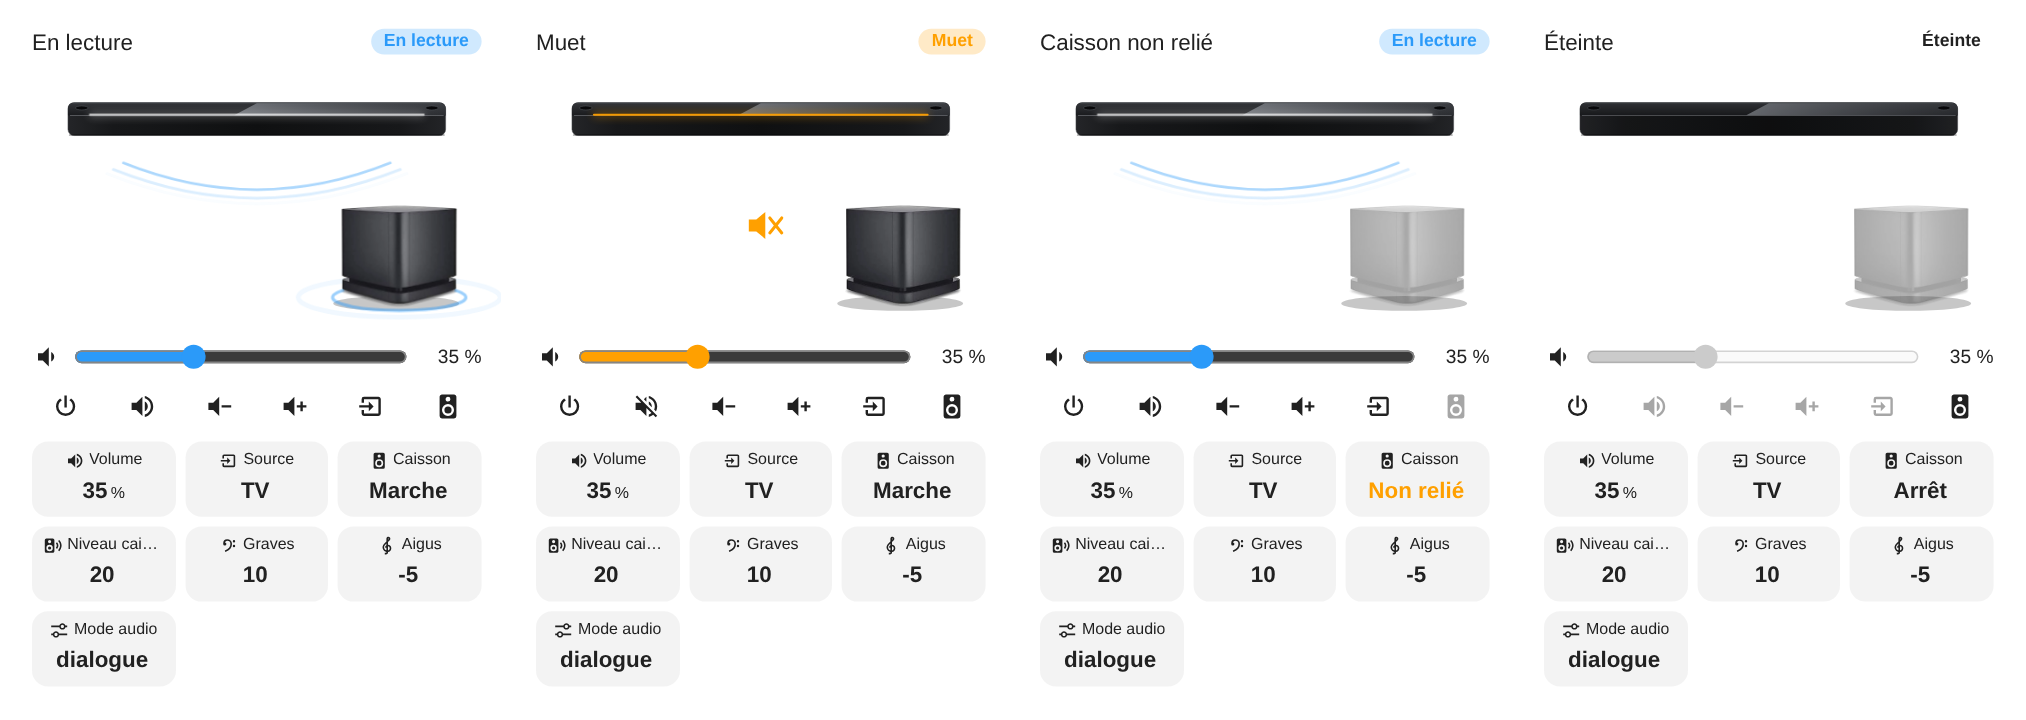
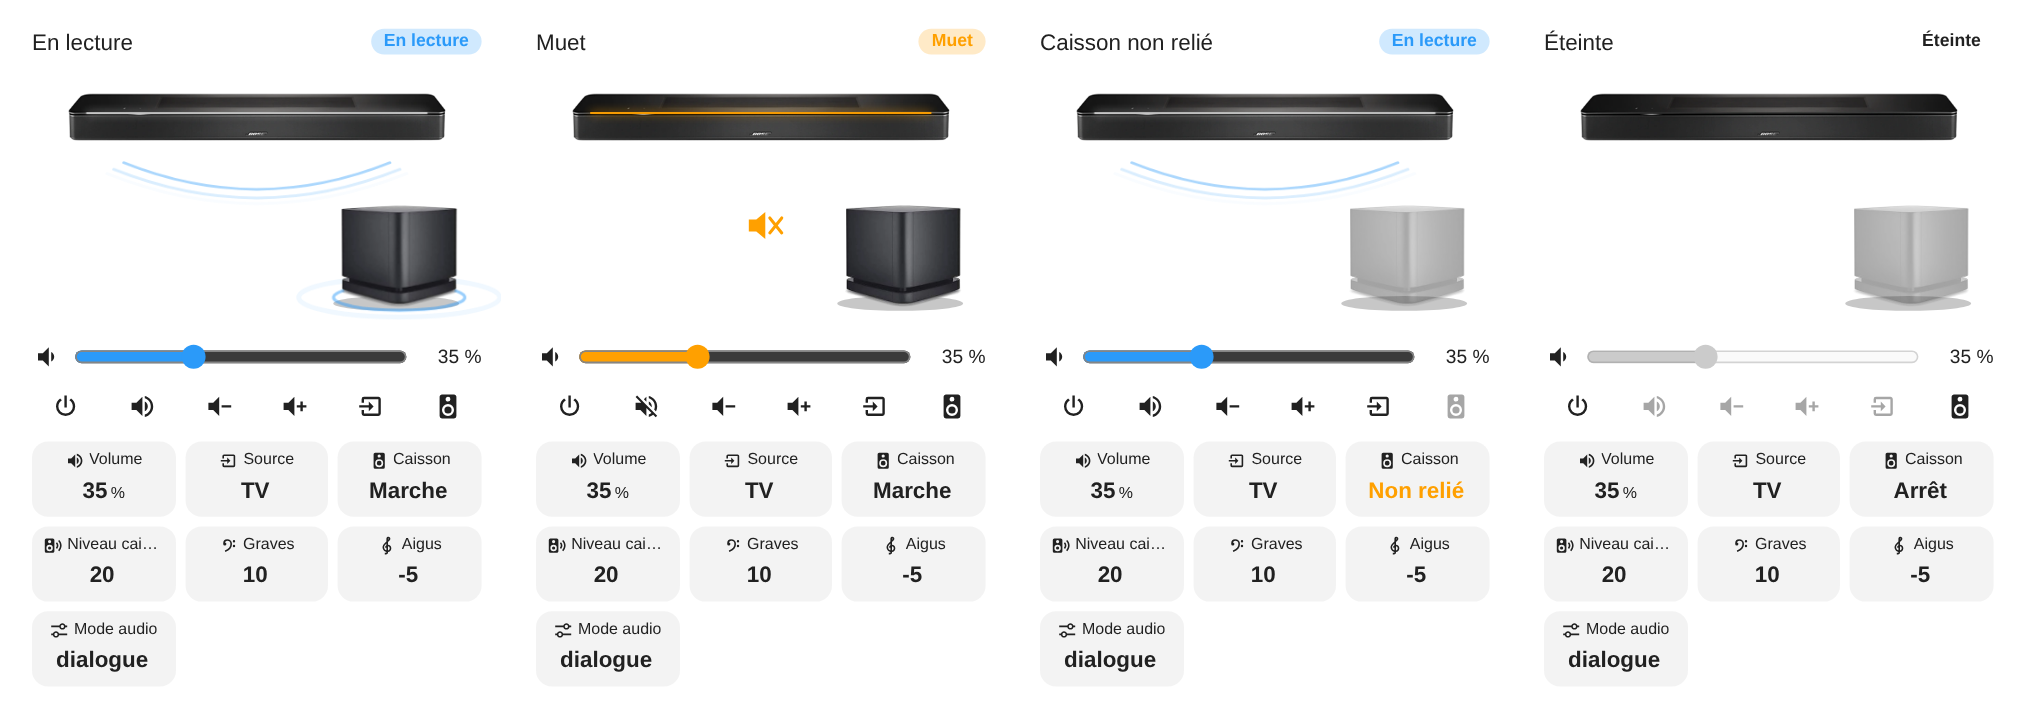
fix(soundbar): use the sharper soundbar photo, cleanly cut out
Replaces the vector drawing and the small soundbar photo by the new photo, matted
at 3x with edge decontamination: crisp edges, grille texture and logo kept.

Refs #588.

Claude-Session: https://claude.ai/code/session_01QpEf3XYvgfuJdkgJvTaaSo

diff --git a/dist/cards/soundbar.js b/dist/cards/soundbar.js
@@ -179,29 +179,16 @@ svg{display:block;width:100%;max-width:calc(300px * var(--illus-scale,1));height
 @keyframes swring{0%{opacity:.75;transform:scale(.6)}100%{opacity:0;transform:scale(1.55)}}
 `;
 
-  // barre de son : dessin vectoriel (net à toutes les tailles), d'après la Bose Smart Soundbar 900 ; caisson : photo détourée (placée à (206, 98) sur 78 de large)
+  // photos détourées : barre de son (placée à (24, 24) sur 252 de large), caisson 282 × 247 (placé à (206, 98) sur 78 de large)
[2 lines of base64/hex data omitted]
   const SVG = (label) => `<svg viewBox="0 0 300 184" role="img" aria-label="${esc(label)}">
-    <defs>
-      <linearGradient id="sbFront" x1="0" x2="1"><stop offset="0" stop-color="#242528"/><stop offset=".12" stop-color="#17181a"/><stop offset=".5" stop-color="#0f1011"/><stop offset=".88" stop-color="#17181a"/><stop offset="1" stop-color="#232427"/></linearGradient>
-      <linearGradient id="sbTop" x1="0" y1="0" x2="0" y2="1"><stop offset="0" stop-color="#34363a"/><stop offset="1" stop-color="#1a1b1e"/></linearGradient>
-      <linearGradient id="sbRefl" x1="0" y1="0" x2="1" y2="0"><stop offset="0" stop-color="#8b8f96" stop-opacity=".75"/><stop offset="1" stop-color="#4a4d53" stop-opacity=".35"/></linearGradient>
-    </defs>
     <ellipse cx="243" cy="164" rx="42" ry="5" fill="rgba(0,0,0,.22)"/>
     <g class="sw-wrap"><ellipse class="sw-ring" cx="245" cy="160" rx="46" ry="9"/><ellipse class="sw-ring r2" cx="245" cy="160" rx="46" ry="9"/>
       <image class="sw-art" href="${SUB}" x="206" y="98" width="78" height="68.3"/></g>
     <g class="sb-waves"><path class="sb-wave" d="M60 62 Q150 98 240 62"/><path class="sb-wave" d="M60 62 Q150 98 240 62"/><path class="sb-wave" d="M60 62 Q150 98 240 62"/></g>
-    <g class="sb-art">
-      <rect x="24" y="30" width="252" height="22" rx="4.2" fill="url(#sbFront)" stroke="#46484d" stroke-width=".35"/>
-      <path d="M28.2 30h243.6q4.2 0 4.2 4.2v4.4H24v-4.4q0-4.2 4.2-4.2z" fill="url(#sbTop)"/>
-      <path d="M150 30.4h121.8q4.2 0 4.2 3.8v4.2H135z" fill="url(#sbRefl)"/>
-      <ellipse cx="33.2" cy="33.6" rx="4.3" ry="1.3" fill="#08080a" stroke="#53565c" stroke-width=".35"/>
-      <ellipse cx="266.8" cy="33.6" rx="4.3" ry="1.3" fill="#08080a" stroke="#53565c" stroke-width=".35"/>
-      <rect x="25.2" y="38.4" width="249.6" height=".55" rx=".27" fill="#9a9da4" opacity=".6"/>
-      <rect x="27" y="30" width="246" height=".4" fill="#c4c7cd" opacity=".4"/>
-      <rect x="24.6" y="51.3" width="250.8" height=".7" rx=".35" fill="#000" opacity=".55"/>
-    </g>
-    <rect class="sb-led" x="38" y="37.4" width="224" height="1.4" rx=".7"/>
+    <image class="sb-art" href="${BAR}" x="24" y="24" width="252" height="31.6"/>
+    <rect class="sb-led" x="36" y="36.3" width="228" height="1.3" rx=".65"/>
     <g class="sb-mute" transform="translate(142 104)"><path d="M0 4h5l6-5v18l-6-5H0z" fill="var(--sb-warn,#ffa000)"/><path d="M14 3l8 10M22 3l-8 10" stroke="var(--sb-warn,#ffa000)" stroke-width="2" stroke-linecap="round"/></g>
   </svg>`;
 

diff --git a/src/cards/soundbar.js b/src/cards/soundbar.js
@@ -66,29 +66,16 @@ svg{display:block;width:100%;max-width:calc(300px * var(--illus-scale,1));height
 @keyframes swring{0%{opacity:.75;transform:scale(.6)}100%{opacity:0;transform:scale(1.55)}}
 `;
 
-  // barre de son : dessin vectoriel (net à toutes les tailles), d'après la Bose Smart Soundbar 900 ; caisson : photo détourée (placée à (206, 98) sur 78 de large)
+  // photos détourées : barre de son (placée à (24, 24) sur 252 de large), caisson 282 × 247 (placé à (206, 98) sur 78 de large)
[2 lines of base64/hex data omitted]
   const SVG = (label) => `<svg viewBox="0 0 300 184" role="img" aria-label="${esc(label)}">
-    <defs>
-      <linearGradient id="sbFront" x1="0" x2="1"><stop offset="0" stop-color="#242528"/><stop offset=".12" stop-color="#17181a"/><stop offset=".5" stop-color="#0f1011"/><stop offset=".88" stop-color="#17181a"/><stop offset="1" stop-color="#232427"/></linearGradient>
-      <linearGradient id="sbTop" x1="0" y1="0" x2="0" y2="1"><stop offset="0" stop-color="#34363a"/><stop offset="1" stop-color="#1a1b1e"/></linearGradient>
-      <linearGradient id="sbRefl" x1="0" y1="0" x2="1" y2="0"><stop offset="0" stop-color="#8b8f96" stop-opacity=".75"/><stop offset="1" stop-color="#4a4d53" stop-opacity=".35"/></linearGradient>
-    </defs>
     <ellipse cx="243" cy="164" rx="42" ry="5" fill="rgba(0,0,0,.22)"/>
     <g class="sw-wrap"><ellipse class="sw-ring" cx="245" cy="160" rx="46" ry="9"/><ellipse class="sw-ring r2" cx="245" cy="160" rx="46" ry="9"/>
       <image class="sw-art" href="${SUB}" x="206" y="98" width="78" height="68.3"/></g>
     <g class="sb-waves"><path class="sb-wave" d="M60 62 Q150 98 240 62"/><path class="sb-wave" d="M60 62 Q150 98 240 62"/><path class="sb-wave" d="M60 62 Q150 98 240 62"/></g>
-    <g class="sb-art">
-      <rect x="24" y="30" width="252" height="22" rx="4.2" fill="url(#sbFront)" stroke="#46484d" stroke-width=".35"/>
-      <path d="M28.2 30h243.6q4.2 0 4.2 4.2v4.4H24v-4.4q0-4.2 4.2-4.2z" fill="url(#sbTop)"/>
-      <path d="M150 30.4h121.8q4.2 0 4.2 3.8v4.2H135z" fill="url(#sbRefl)"/>
-      <ellipse cx="33.2" cy="33.6" rx="4.3" ry="1.3" fill="#08080a" stroke="#53565c" stroke-width=".35"/>
-      <ellipse cx="266.8" cy="33.6" rx="4.3" ry="1.3" fill="#08080a" stroke="#53565c" stroke-width=".35"/>
-      <rect x="25.2" y="38.4" width="249.6" height=".55" rx=".27" fill="#9a9da4" opacity=".6"/>
-      <rect x="27" y="30" width="246" height=".4" fill="#c4c7cd" opacity=".4"/>
-      <rect x="24.6" y="51.3" width="250.8" height=".7" rx=".35" fill="#000" opacity=".55"/>
-    </g>
-    <rect class="sb-led" x="38" y="37.4" width="224" height="1.4" rx=".7"/>
+    <image class="sb-art" href="${BAR}" x="24" y="24" width="252" height="31.6"/>
+    <rect class="sb-led" x="36" y="36.3" width="228" height="1.3" rx=".65"/>
     <g class="sb-mute" transform="translate(142 104)"><path d="M0 4h5l6-5v18l-6-5H0z" fill="var(--sb-warn,#ffa000)"/><path d="M14 3l8 10M22 3l-8 10" stroke="var(--sb-warn,#ffa000)" stroke-width="2" stroke-linecap="round"/></g>
   </svg>`;
 
